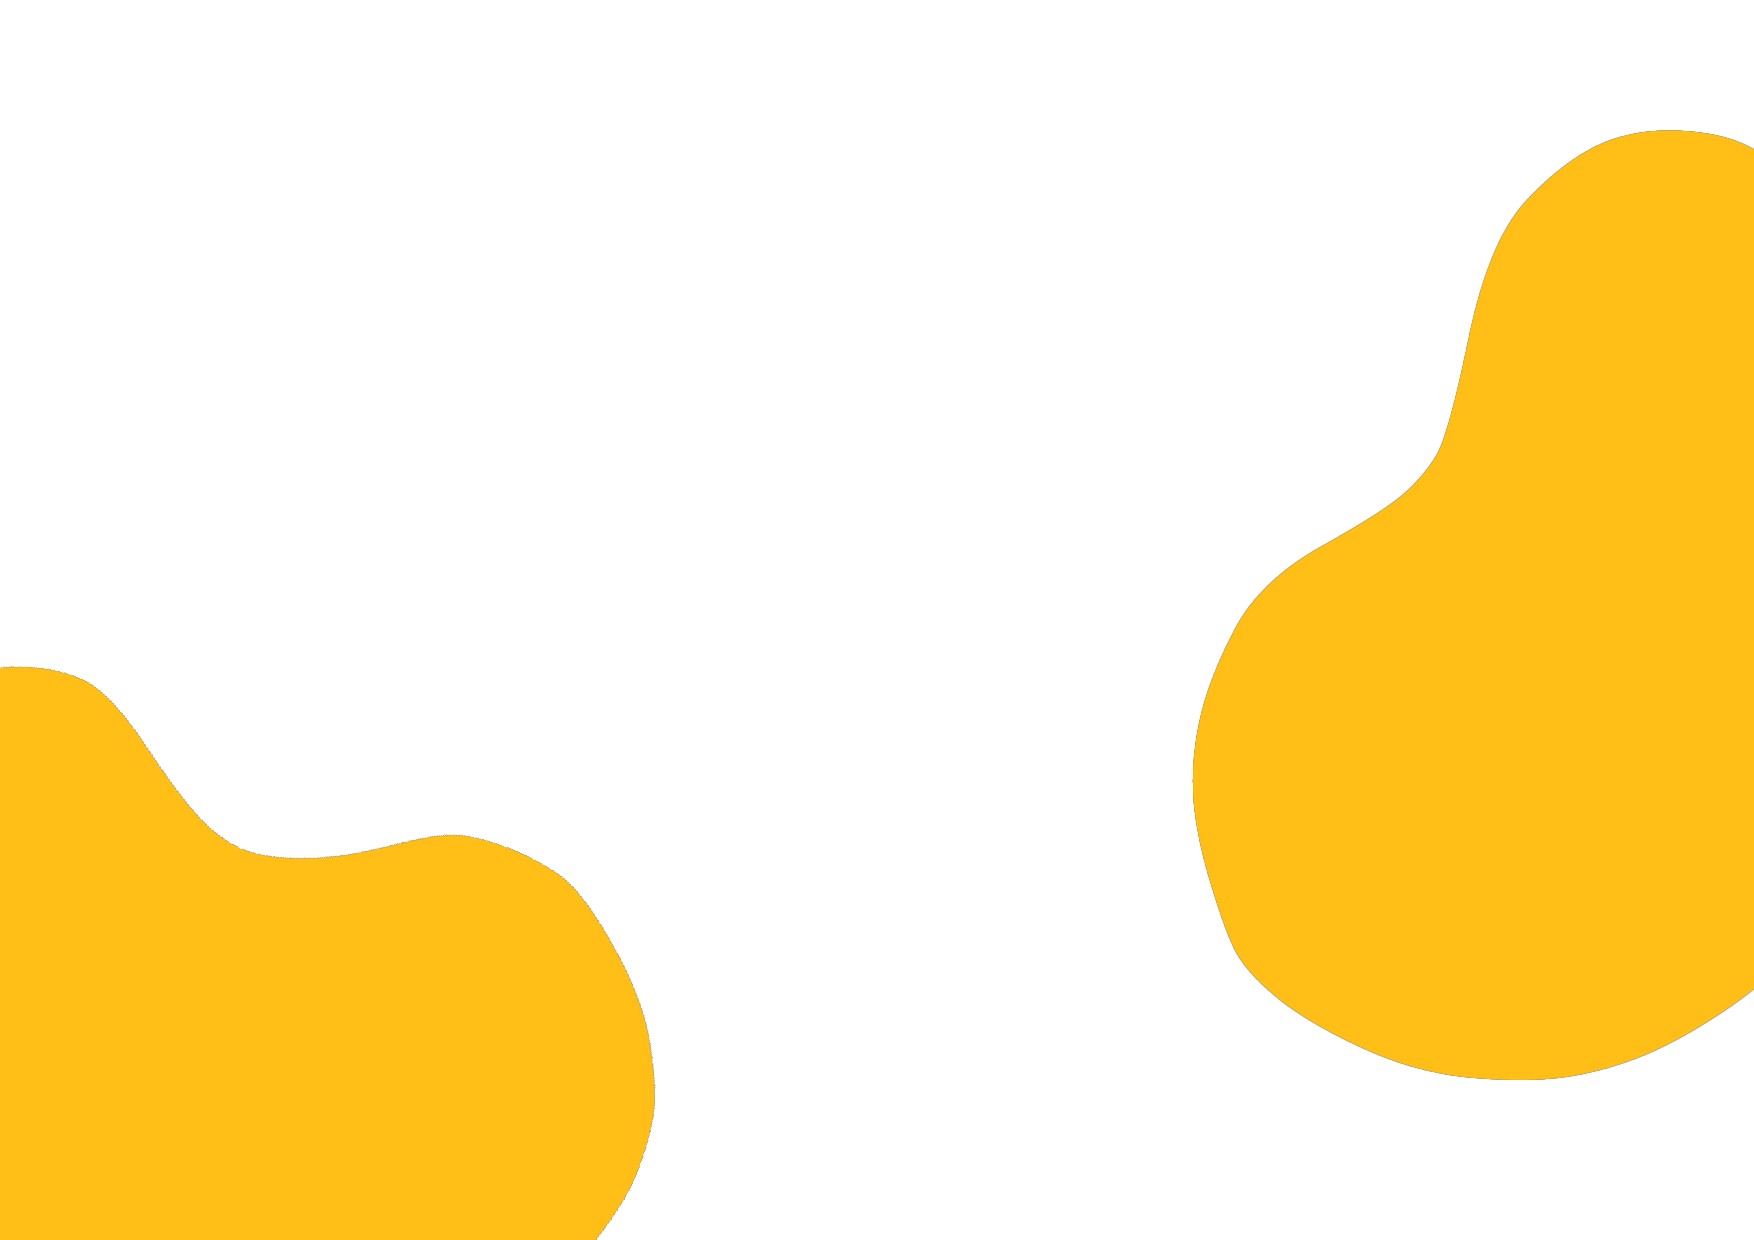
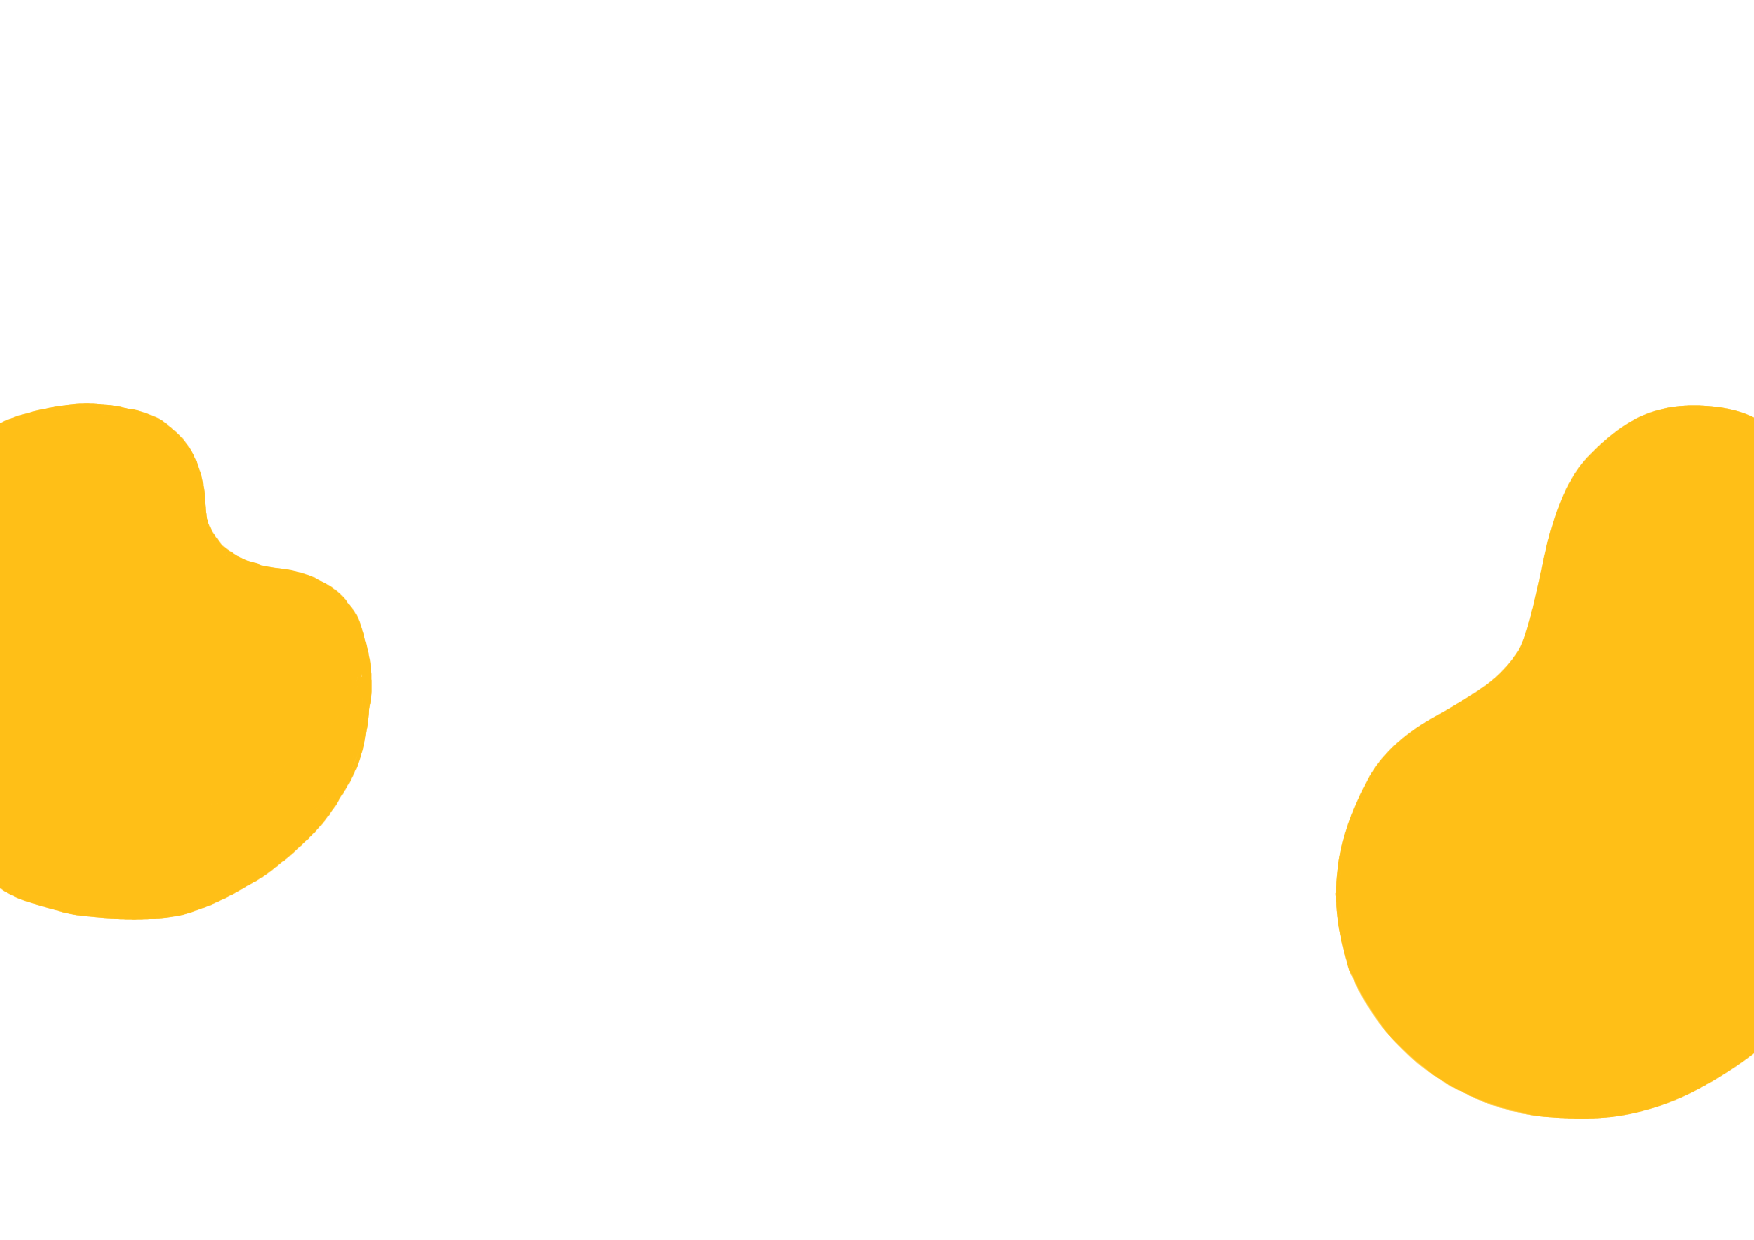
made changes in the css of profile page

Changed region(s): [[0.0, 0.3065, 0.4002, 1.0], [0.6773, 0.0919, 1.0, 0.8581], [0.8005, 0.7968, 1.0, 0.9194]]

diff --git a/css/home.css b/css/home.css
@@ -1,7 +1,7 @@
 body {
     font-family: 'Segoe UI', Tahoma, Geneva, Verdana, sans-serif;
     margin: 0;
-    background-image: url('/RecipeBook/Recipe-Book/background_3.png');
+    background-image: url('/RecipeBook/Recipe-Book/background.png');
     background-attachment: fixed;
     background-size: cover;
     background-position: center;
@@ -121,14 +121,14 @@ body {
     font-weight: bold;
     font-size: 14px;
     background-color: #cccc;
-    border-color: #cccc;
+    border:none;
     border-radius: 20px;
     padding: 5px;
 }
 
 .heading select:hover {
-    background-color: #FFBF17;
-    border-color: #FFBF17;
+    background-color: black;
+    color:white;
 }
 
 .add_recipe {

diff --git a/css/home_for_all.css b/css/home_for_all.css
@@ -1,7 +1,7 @@
 body {
     font-family: 'Segoe UI', Tahoma, Geneva, Verdana, sans-serif;
     margin: 0;
-    background-image: url('/RecipeBook/Recipe-Book/background_3.png');
+    background-image: url('/RecipeBook/Recipe-Book/background.png');
     background-attachment: fixed;
     background-size: cover;
     background-position: center;
@@ -122,14 +122,14 @@ body {
     font-weight: bold;
     font-size: 14px;
     background-color: #cccc;
-    border-color: #cccc;
+    border:none;
     border-radius: 20px;
     padding: 5px;
 }
 
 .heading select:hover {
-    background-color: #FFBF17;
-    border-color: #FFBF17;
+    background-color: black;
+    color:white;
 }
 
 .add_recipe {

diff --git a/css/profile.css b/css/profile.css
@@ -1,7 +1,7 @@
 body {
     font-family: 'Segoe UI', Tahoma, Geneva, Verdana, sans-serif;
     margin: 0;
-    background-image: url('/RecipeBook/Recipe-Book/background_3.png');
+    background-image: url('/RecipeBook/Recipe-Book/background.png');
     background-attachment: fixed;
     background-size: cover;
     background-position: center;
@@ -90,14 +90,14 @@ body {
     font-weight: bold;
     font-size: 14px;
     background-color: #cccc;
-    border-color: #cccc;
+    border:none;
     border-radius: 20px;
     padding: 5px;
 }
 
 .heading select:hover {
-    background-color: #FFBF17;
-    border-color: #FFBF17;
+    background-color: black;
+    color:white;
 }
 
 .add_recipe {

diff --git a/css/login.css b/css/login.css
@@ -6,7 +6,7 @@ body {
     width: 100%;
     height: 100vh;
     margin: 0;
-    background-image: url('/RecipeBook/Recipe-Book/background_3.png');
+    background-image: url('/RecipeBook/Recipe-Book/background.png');
     background-size: cover;
     background-position: center;
     color: #333333;

diff --git a/css/signup.css b/css/signup.css
@@ -6,7 +6,7 @@ body {
     width: 100%;
     height: 100vh;
     margin: 0;
-    background-image: url('/RecipeBook/Recipe-Book/background_3.png');
+    background-image: url('/RecipeBook/Recipe-Book/background.png');
     background-size: cover;
     background-position: center;
     color: #333333;
